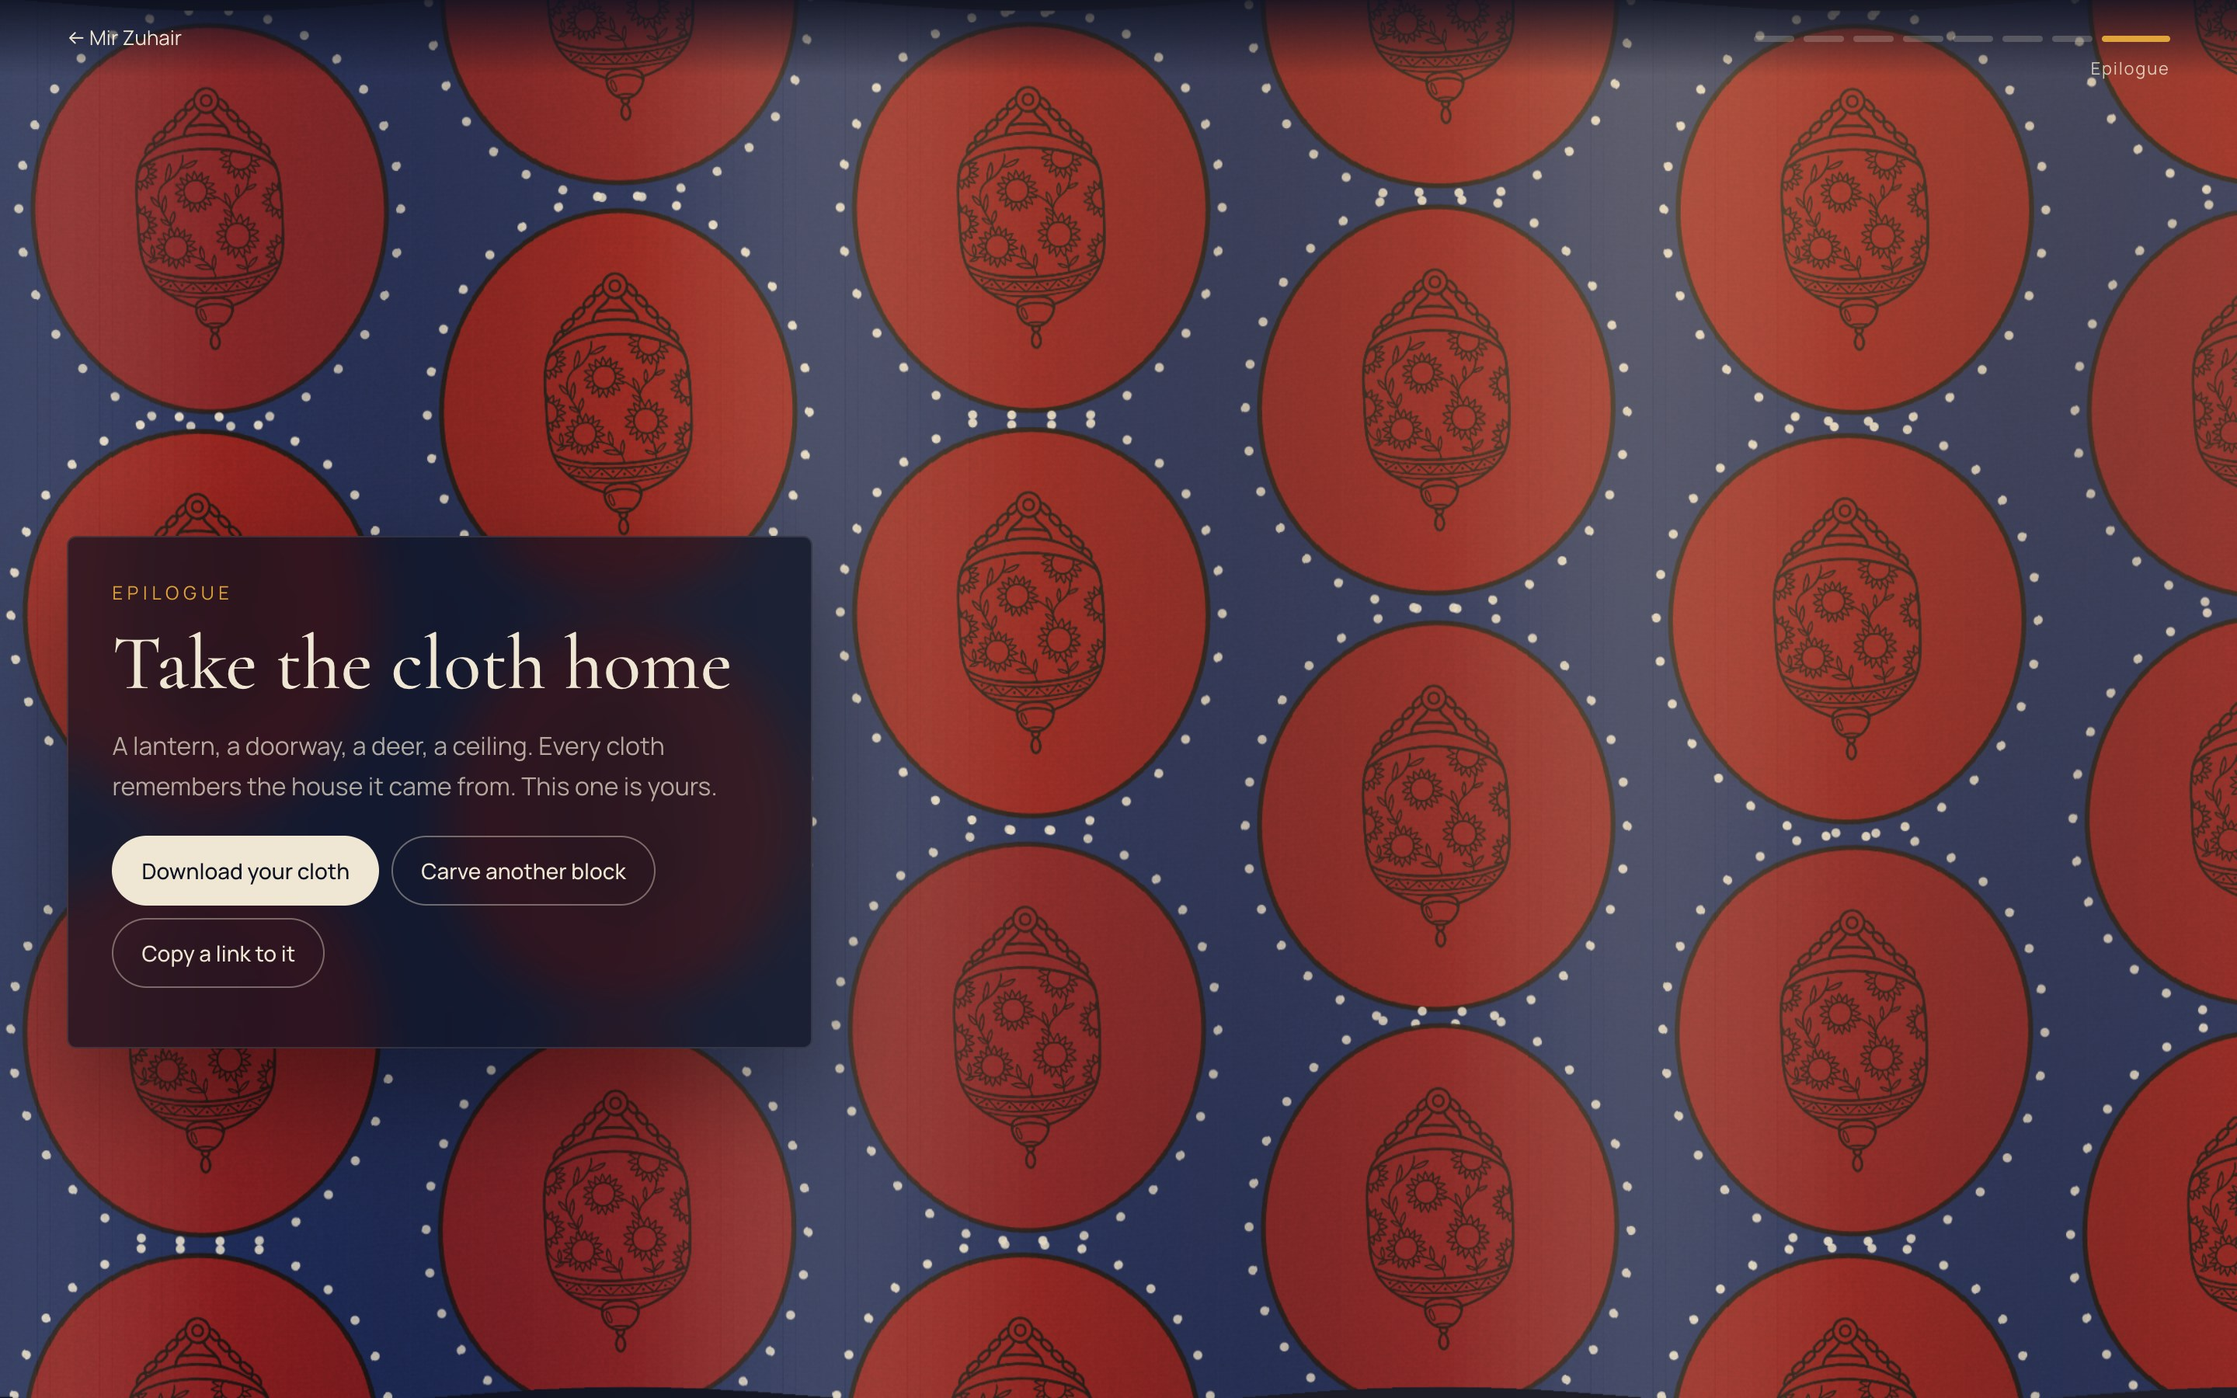
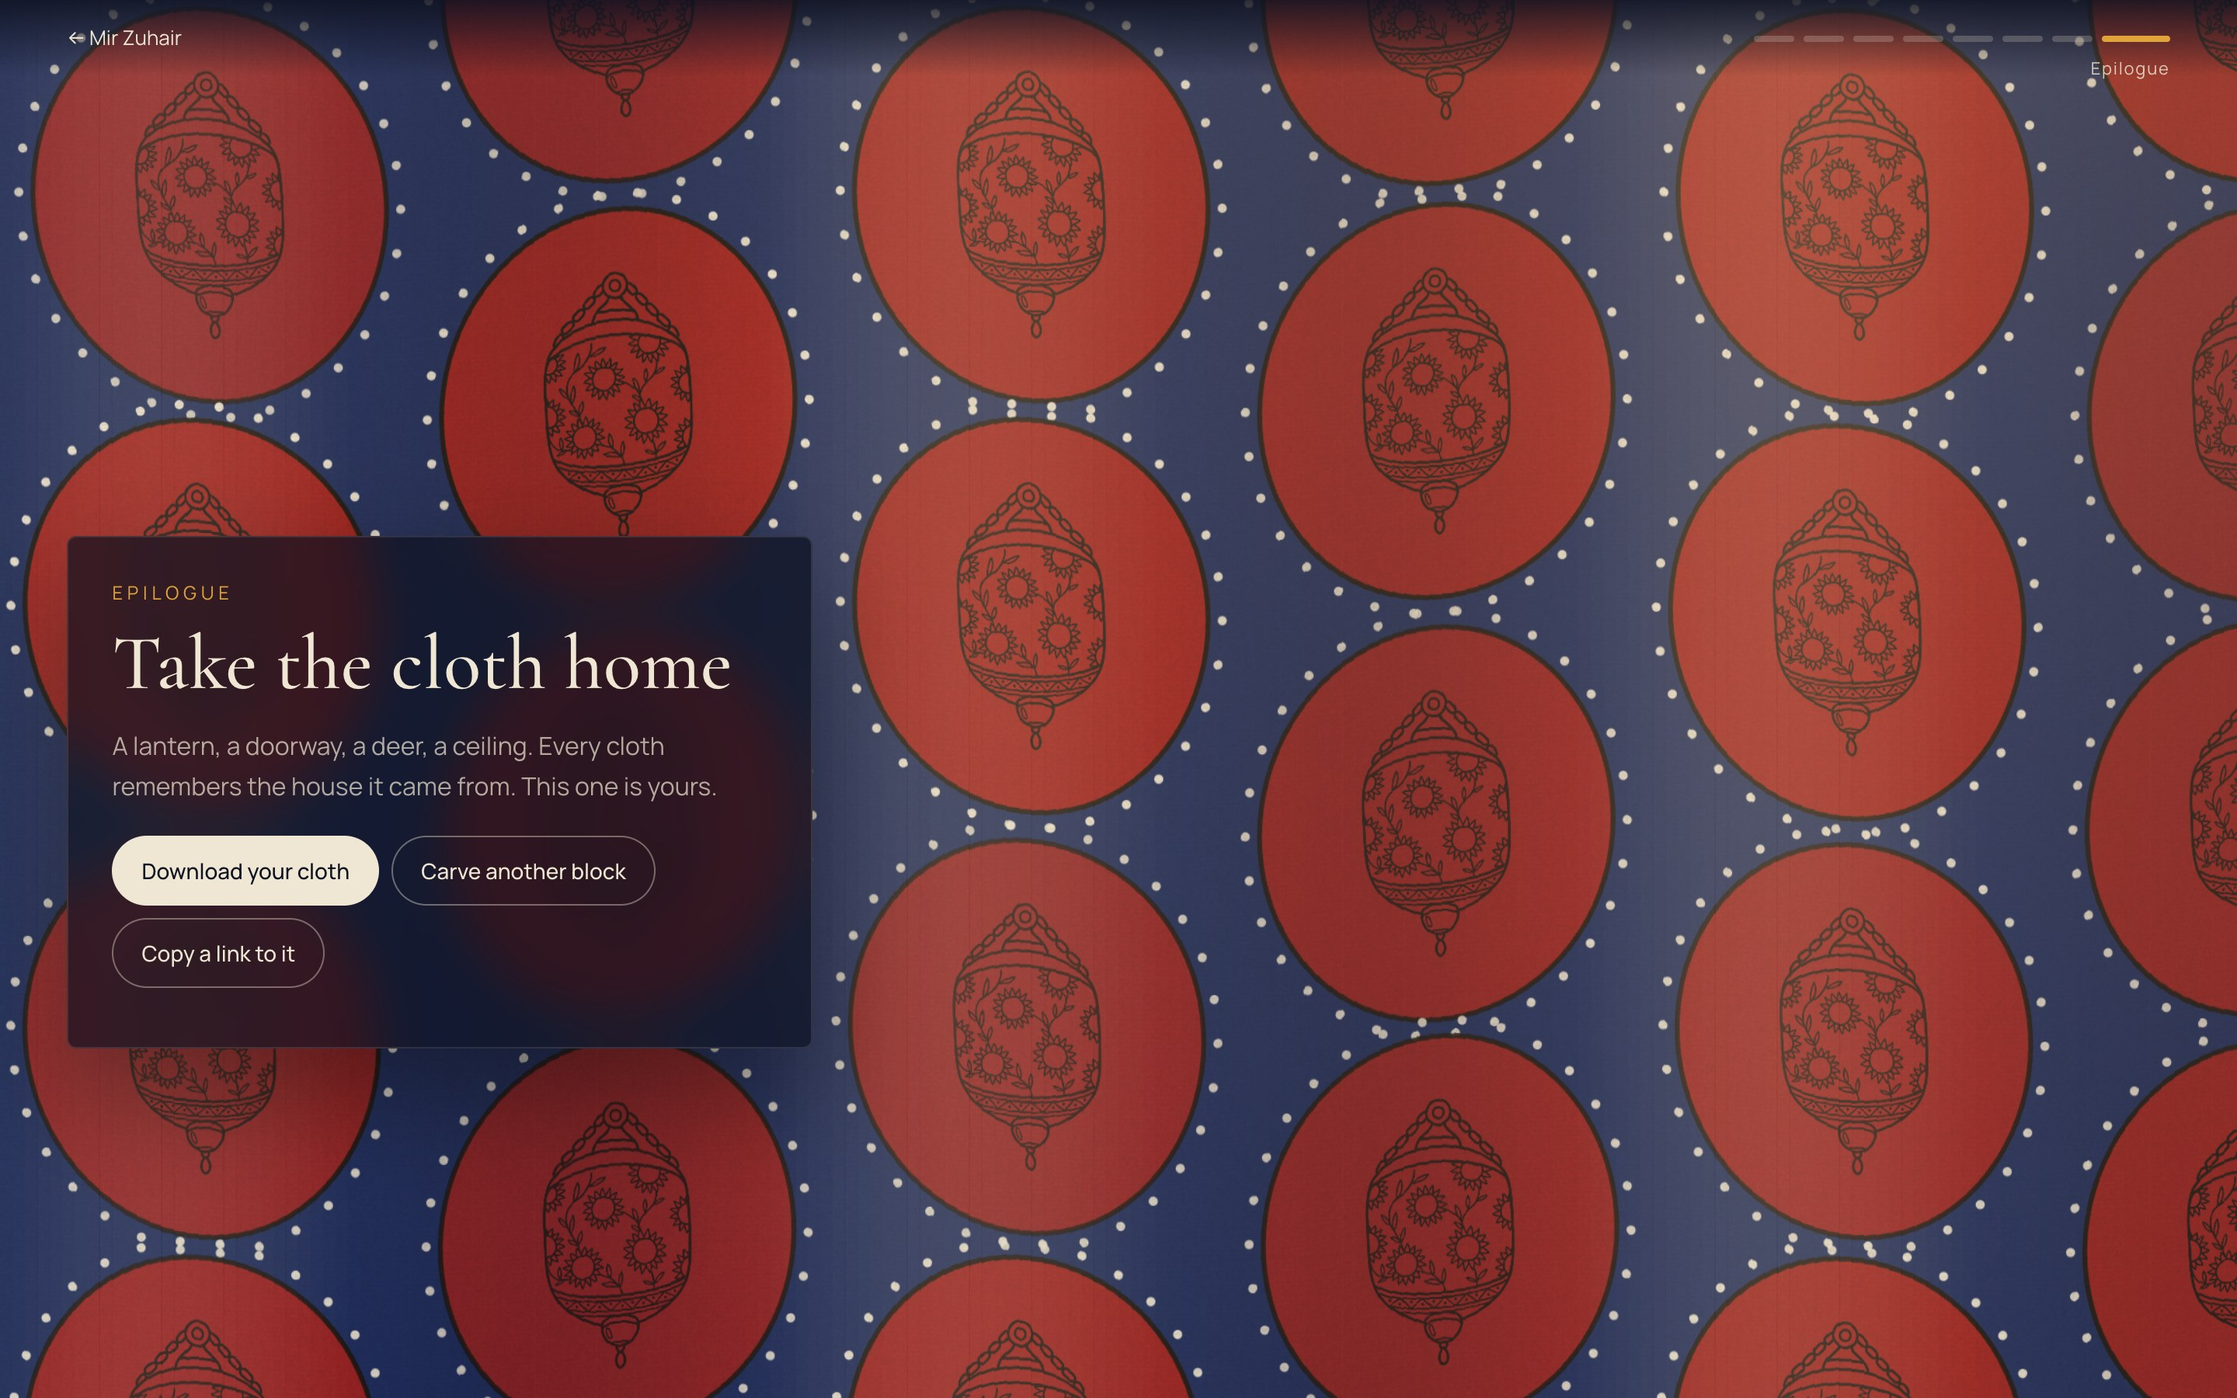
feat(chhaap): give each block its own shape and dyes
Lantern prints madder ovals on indigo, doorway turmeric arches on
madder, deer crest indigo circles on iron black, ceiling madder
diamonds on iron black. The dye chapter names and shows the chosen
block's dyes. Research cards now show four distinct finished cloths.

diff --git a/chhaap/cloth.js b/chhaap/cloth.js
@@ -4,12 +4,16 @@ window.ChhaapCloth = (() => {
 
   const MOTIFS = Object.freeze(["lantern", "doorway", "deer", "ceiling"]);
   const INK = "#1a1512";
-  // the three moments of colour: raw cotton, after madder, after indigo
-  const DYES = Object.freeze([
-    { ground: "#efe6d4", medal: "#efe6d4", dot: "#1a1512" },
-    { ground: "#efe6d4", medal: "#a3201d", dot: "#1a1512" },
-    { ground: "#1f2d5c", medal: "#9b1d1a", dot: "#efe6d4" }
-  ]);
+  const RAW = "#efe6d4";
+  // each block has its own print shape and its own two natural dyes:
+  // the first fills the heart of every print, the second the cloth around it
+  const STYLES = Object.freeze({
+    lantern: { shape: "oval", first: { name: "madder", color: "#a3201d" }, second: { name: "indigo", color: "#1f2d5c" }, note: "Madder is a red from a root; indigo, a blue from a leaf." },
+    doorway: { shape: "arch", first: { name: "turmeric", color: "#d69a1a" }, second: { name: "madder", color: "#7e1714" }, note: "Turmeric is a yellow from a root; madder, a red from a root." },
+    deer: { shape: "circle", first: { name: "indigo", color: "#2c4a8e" }, second: { name: "iron black", color: "#1b1917" }, note: "Indigo is a blue from a leaf; iron black comes from rusted iron." },
+    ceiling: { shape: "diamond", first: { name: "madder", color: "#b0271f" }, second: { name: "iron black", color: "#1b1917" }, note: "Madder is a red from a root; iron black comes from rusted iron." }
+  });
+  const styleOf = (motif) => STYLES[motif] || STYLES.lantern;
   const DOTS_PER_RING = 30;
   const TINT_CACHE_MAX = 40;
   const tintCache = new Map();
@@ -26,12 +30,19 @@ window.ChhaapCloth = (() => {
   const hex = (h) => [1, 3, 5].map((i) => parseInt(h.slice(i, i + 2), 16));
   const mix = (a, b, t) => { const x = hex(a); const y = hex(b); return `rgb(${x.map((v, i) => Math.round(v + (y[i] - v) * t)).join(",")})`; };
 
-  function colorsAt(dye) {
+  // the three moments of colour: raw cotton, after the first dye, after the second
+  function colorsAt(dye, motif) {
+    const st = styleOf(motif);
+    const stops = [
+      { ground: RAW, medal: RAW, dot: INK },
+      { ground: RAW, medal: st.first.color, dot: INK },
+      { ground: st.second.color, medal: st.first.color, dot: RAW }
+    ];
     const d = Math.max(0, Math.min(2, dye));
     const i = Math.min(1, Math.floor(d));
     const t = d - i;
-    const a = DYES[i];
-    const b = DYES[i + 1];
+    const a = stops[i];
+    const b = stops[i + 1];
     return { ground: mix(a.ground, b.ground, t), medal: mix(a.medal, b.medal, t), dot: mix(a.dot, b.dot, t), line: INK };
   }
 
@@ -70,15 +81,36 @@ window.ChhaapCloth = (() => {
     return { jx: (r(1) - .5) * tile * .024, jy: (r(2) - .5) * tile * .024, rot: (r(3) - .5) * .026, ink: .84 + r(4) * .16 };
   }
 
-  function drawPrint(ctx, slot, tile, mask, col, jit) {
+  function shapePath(ctx, shape, rx, ry) {
+    ctx.beginPath();
+    if (shape === "circle") ctx.arc(0, 0, Math.min(rx, ry), 0, Math.PI * 2);
+    else if (shape === "diamond") { ctx.moveTo(0, -ry * 1.05); ctx.lineTo(rx * 1.05, 0); ctx.lineTo(0, ry * 1.05); ctx.lineTo(-rx * 1.05, 0); ctx.closePath(); }
+    else if (shape === "arch") { ctx.moveTo(-rx, ry); ctx.lineTo(-rx, -ry * .1); ctx.bezierCurveTo(-rx, -ry * .75, -rx * .35, -ry, 0, -ry * 1.08); ctx.bezierCurveTo(rx * .35, -ry, rx, -ry * .75, rx, -ry * .1); ctx.lineTo(rx, ry); ctx.closePath(); }
+    else ctx.ellipse(0, 0, rx, ry, 0, 0, Math.PI * 2);
+  }
+
+  // points around the edge of the print shape, for the ring of resist dots
+  function edgePoint(shape, a, rx, ry) {
+    if (shape === "circle") { const r = Math.min(rx, ry); return [Math.cos(a) * r, Math.sin(a) * r]; }
+    if (shape === "diamond") { const c = Math.cos(a); const s2 = Math.sin(a); const k = 1.05 / (Math.abs(c) / rx + Math.abs(s2) / ry); return [c * k, s2 * k]; }
+    if (shape === "arch") {
+      const c = Math.cos(a);
+      const s2 = Math.sin(a);
+      if (s2 < 0) return [c * rx, s2 * ry * 1.05]; // the rounded top
+      const k = Math.min(rx / Math.max(Math.abs(c), 1e-6), ry / Math.max(s2, 1e-6)); // the straight sides and base
+      return [c * k, s2 * k];
+    }
+    return [Math.cos(a) * rx, Math.sin(a) * ry];
+  }
+
+  function drawPrint(ctx, slot, tile, mask, col, jit, shape = "oval") {
     const rx = tile * .43;
     const ry = tile * .47;
     ctx.save();
     ctx.translate(slot.x + jit.jx, slot.y + jit.jy);
     ctx.rotate(jit.rot);
     ctx.globalAlpha = jit.ink;
-    ctx.beginPath();
-    ctx.ellipse(0, 0, rx, ry, 0, 0, Math.PI * 2);
+    shapePath(ctx, shape, rx, ry);
     ctx.fillStyle = col.medal;
     ctx.fill();
     ctx.lineWidth = Math.max(1, tile * .012);
@@ -88,7 +120,8 @@ window.ChhaapCloth = (() => {
     for (let k = 0; k < DOTS_PER_RING; k++) {
       const a = (k / DOTS_PER_RING) * Math.PI * 2;
       ctx.beginPath();
-      ctx.arc(Math.cos(a) * rx * 1.08, Math.sin(a) * ry * 1.08, Math.max(.8, tile * .011), 0, Math.PI * 2);
+      const [ex, ey] = edgePoint(shape, a, rx, ry);
+      ctx.arc(ex * 1.08, ey * 1.08, Math.max(.8, tile * .011), 0, Math.PI * 2);
       ctx.fill();
     }
     const box = tile * .64;
@@ -119,10 +152,11 @@ window.ChhaapCloth = (() => {
   }
 
   function drawCloth(ctx, W, H, o) {
-    const col = colorsAt(o.dye);
+    const col = colorsAt(o.dye, o.motif);
+    const shape = styleOf(o.motif).shape;
     ctx.fillStyle = col.ground;
     ctx.fillRect(0, 0, W, H);
-    o.slots.forEach((slot, idx) => { if (o.pressed.has(idx)) drawPrint(ctx, slot, o.tile, o.mask, col, jitterFor(idx, o.tile)); });
+    o.slots.forEach((slot, idx) => { if (o.pressed.has(idx)) drawPrint(ctx, slot, o.tile, o.mask, col, jitterFor(idx, o.tile), shape); });
     ctx.save();
     ctx.globalCompositeOperation = "multiply";
     ctx.globalAlpha = .16;
@@ -131,11 +165,11 @@ window.ChhaapCloth = (() => {
     ctx.restore();
   }
 
-  function drawBorders(ctx, W, H, band) {
+  function drawBorders(ctx, W, H, band, accent) {
     [0, H - band].forEach((y) => {
       ctx.fillStyle = INK;
       ctx.fillRect(0, y, W, band);
-      ctx.fillStyle = "#a3201d";
+      ctx.fillStyle = accent;
       ctx.fillRect(0, y + band * .18, W, band * .1);
       ctx.fillRect(0, y + band * .72, W, band * .1);
       ctx.fillStyle = "#efe6d4";
@@ -202,7 +236,7 @@ window.ChhaapCloth = (() => {
   }
 
   // one lone print on a square of cloth, for the prologue
-  function drawSingle(ctx, W, H, mask, cx) {
+  function drawSingle(ctx, W, H, mask, cx, motif) {
     ctx.fillStyle = "#0d1120";
     ctx.fillRect(0, 0, W, H);
     const S = Math.min(W, H) * .5;
@@ -218,10 +252,10 @@ window.ChhaapCloth = (() => {
     ctx.fillStyle = "#efe6d4";
     ctx.fillRect(cx - S / 2, H / 2 - S / 2, S, S);
     ctx.restore();
-    drawPrint(ctx, { x: cx, y: H / 2 }, S * .86, mask, colorsAt(1), { jx: 0, jy: 0, rot: -.01, ink: .96 });
+    drawPrint(ctx, { x: cx, y: H / 2 }, S * .86, mask, colorsAt(1, motif), { jx: 0, jy: 0, rot: -.01, ink: .96 }, styleOf(motif).shape);
   }
 
-  function exportCloth(mask) {
+  function exportCloth(mask, motif) {
     const W = 2400;
     const H = 3000;
     const band = 150;
@@ -233,11 +267,11 @@ window.ChhaapCloth = (() => {
     const slots = layout(W, H - band * 2, tile);
     ctx.save();
     ctx.translate(0, band);
-    drawCloth(ctx, W, H - band * 2, { slots, tile, mask, dye: 2, pressed: new Set(slots.map((_, i) => i)) });
+    drawCloth(ctx, W, H - band * 2, { slots, tile, mask, motif, dye: 2, pressed: new Set(slots.map((_, i) => i)) });
     ctx.restore();
-    drawBorders(ctx, W, H, band);
+    drawBorders(ctx, W, H, band, styleOf(motif).first.color);
     return c;
   }
 
-  return Object.freeze({ MOTIFS, loadMasks, layout, colorsAt, drawCloth, drawBlock, drawSingle, exportCloth });
+  return Object.freeze({ MOTIFS, styleOf, loadMasks, layout, colorsAt, drawCloth, drawBlock, drawSingle, exportCloth });
 })();

diff --git a/chhaap/chhaap.js b/chhaap/chhaap.js
@@ -94,7 +94,7 @@
   /* ---------- drawing per chapter ---------- */
   function renderCloth(dye) {
     if (!clothDirty) return;
-    C.drawCloth(offCtx, W, H, { slots, tile, mask: masks[state.motif], dye, pressed: state.pressed });
+    C.drawCloth(offCtx, W, H, { slots, tile, mask: masks[state.motif], motif: state.motif, dye, pressed: state.pressed });
     clothDirty = false;
   }
 
@@ -149,10 +149,10 @@
     for (let x = 0; x < W; x += strip) {
       const phase = x * .012 - t * 1.4;
       const dy = REDUCED ? 0 : Math.sin(phase) * amp;
-      ctx.drawImage(off, x * sx, 0, strip * sx, off.height, x, dy, strip, H);
+      ctx.drawImage(off, x * sx, 0, strip * sx, off.height, x, dy - amp, strip, H + amp * 2); // overdraw so no edge shows
       const shade = REDUCED ? 0 : Math.cos(phase) * .12;
       ctx.fillStyle = shade > 0 ? `rgba(255,236,200,${shade.toFixed(3)})` : `rgba(0,0,20,${(-shade).toFixed(3)})`;
-      ctx.fillRect(x, dy, strip, H);
+      ctx.fillRect(x, 0, strip, H);
     }
     const sun = ctx.createRadialGradient(W * .85, -H * .1, 0, W * .85, -H * .1, Math.max(W, H));
     sun.addColorStop(0, "rgba(255,210,140,.22)");
@@ -165,7 +165,7 @@
     const ch = state.chapter;
     const mask = masks && masks[state.motif];
     if (mask) {
-      if (ch === "prologue") C.drawSingle(ctx, W, H, mask, focusX());
+      if (ch === "prologue") C.drawSingle(ctx, W, H, mask, focusX(), state.motif);
       else if (ch === "block") C.drawBlock(ctx, W, H, mask, REDUCED ? 1 : (now - chapterStart) / CARVE_MS, focusX());
       else if (ch === "press") { renderCloth(0); ctx.drawImage(off, 0, 0, W, H); drawFlashes(now); }
       else if (ch === "dye") { renderCloth(state.dye); ctx.drawImage(off, 0, 0, W, H); }
@@ -210,18 +210,30 @@
   }
 
   /* ---------- choices and actions ---------- */
+  // the dye chapter names the two dyes of the chosen block and wears its colours
+  function showDyes(st) {
+    const cap = (w) => w.charAt(0).toUpperCase() + w.slice(1);
+    $$("[data-dye='first']").forEach((el) => { el.textContent = el.dataset.cap ? cap(st.first.name) : st.first.name; });
+    $$("[data-dye='second']").forEach((el) => { el.textContent = st.second.name; });
+    $("[data-dye='note']").textContent = st.note;
+    const card = $("#dye .card");
+    card.style.setProperty("--dye-a", st.first.color);
+    card.style.setProperty("--dye-b", st.second.color);
+  }
+
   function chooseMotif(m) {
     if (!C.MOTIFS.includes(m)) return;
     update({ motif: m });
     $$("[data-motif]").forEach((b) => b.setAttribute("aria-pressed", String(b.dataset.motif === m)));
     $$("[data-photo]").forEach((f) => f.classList.toggle("on", f.dataset.photo === m));
+    showDyes(C.styleOf(m));
     const url = new URL(location.href);
     url.searchParams.set("block", m);
     history.replaceState(null, "", url);
   }
 
   function downloadCloth(status) {
-    C.exportCloth(masks[state.motif]).toBlob((blob) => {
+    C.exportCloth(masks[state.motif], state.motif).toBlob((blob) => {
       if (!blob) { status.textContent = "Your browser could not make the image. Please try another browser."; return; }
       const a = document.createElement("a");
       a.href = URL.createObjectURL(blob);

diff --git a/chhaap/chhaap.css b/chhaap/chhaap.css
@@ -57,8 +57,9 @@ h1 .ur { font-size: .42em; color: var(--turmeric); line-height: 1; padding-top: 
 .scroll-cue { margin-top: 30px !important; font-size: 13px; letter-spacing: .1em; animation: breathe 2.6s ease-in-out infinite; }
 @keyframes breathe { 50% { opacity: .35; } }
 h2 { font-family: var(--serif); font-weight: 500; font-size: clamp(34px, 3.6vw, 50px); line-height: 1.02; margin-bottom: 14px; }
-em.madder { color: #e0645a; font-family: var(--serif); font-size: 1.2em; }
-em.indigo { color: #8fa8ea; font-family: var(--serif); font-size: 1.2em; }
+em.dye-a, em.dye-b { font-family: var(--serif); font-size: 1.2em; color: var(--cream); text-decoration: underline; text-decoration-thickness: 4px; text-underline-offset: 5px; }
+em.dye-a { text-decoration-color: var(--dye-a, #a3201d); }
+em.dye-b { text-decoration-color: var(--dye-b, #1f2d5c); }
 .ask { color: var(--cream) !important; font-family: var(--serif); font-style: italic; font-size: 21px; }
 .fine { font-size: 12px; opacity: .75; }
 .choices { display: grid; grid-template-columns: 1fr 1fr; gap: 8px; margin: 14px 0 10px; }
@@ -73,7 +74,7 @@ em.indigo { color: #8fa8ea; font-family: var(--serif); font-size: 1.2em; }
 .btn:hover { border-color: var(--turmeric); }
 .btn.solid { background: var(--cream); color: var(--night); border-color: var(--cream); }
 .btn.solid:hover { background: var(--turmeric); border-color: var(--turmeric); }
-.dye-meter { position: relative; height: 6px; border-radius: 3px; margin: 22px 0 18px; background: linear-gradient(90deg, var(--madder) 0 50%, #26396e 50% 100%); }
+.dye-meter { position: relative; height: 6px; border-radius: 3px; margin: 22px 0 18px; background: linear-gradient(90deg, var(--dye-a, #a3201d) 0 50%, var(--dye-b, #1f2d5c) 50% 100%); box-shadow: inset 0 0 0 1px rgba(239, 230, 212, .2); }
 .dye-meter i { position: absolute; top: -4px; width: 14px; height: 14px; border-radius: 50%; background: var(--cream); left: calc(var(--p, 0) * (100% - 14px)); }
 .dye-meter span { position: absolute; top: 12px; font-size: 11px; letter-spacing: .12em; text-transform: uppercase; opacity: .7; }
 .dye-meter span:first-of-type { left: 0; }

diff --git a/chhaap/index.html b/chhaap/index.html
@@ -10,7 +10,7 @@
 <link rel="preconnect" href="https://fonts.googleapis.com">
 <link rel="preconnect" href="https://fonts.gstatic.com" crossorigin>
 <link href="https://fonts.googleapis.com/css2?family=Cormorant+Garamond:ital,wght@0,400;0,500;0,600;1,400;1,500&family=Manrope:wght@400;500;600&family=Noto+Nastaliq+Urdu:wght@500&display=swap" rel="stylesheet">
-<link rel="stylesheet" href="chhaap.css?v=2">
+<link rel="stylesheet" href="chhaap.css?v=4">
 </head>
 <body>
 <header class="bar">
@@ -91,10 +91,11 @@
   <section class="ch tall" id="dye" data-ch="dye">
     <div class="card">
       <p class="num">IV · The dye</p>
-      <h2>Madder, then indigo</h2>
-      <p>The printed lines hold. Then the colour comes: first <em class="madder">madder</em>, a red from a root, into the heart of every print.</p>
-      <p>Then <em class="indigo">indigo</em>, a blue from a leaf, into everything around it. Keep scrolling to dye the cloth.</p>
-      <div class="dye-meter" aria-hidden="true"><i data-dye-meter></i><span>madder</span><span>indigo</span></div>
+      <h2><span data-dye="first" data-cap="1">Madder</span>, then <span data-dye="second">indigo</span></h2>
+      <p>The printed lines hold. Then the colour comes: first <em class="dye-a" data-dye="first">madder</em>, into the heart of every print.</p>
+      <p>Then <em class="dye-b" data-dye="second">indigo</em>, into everything around it. Keep scrolling to dye the cloth.</p>
+      <p class="fine" data-dye="note">Madder is a red from a root; indigo, a blue from a leaf.</p>
+      <div class="dye-meter" aria-hidden="true"><i data-dye-meter></i><span data-dye="first">madder</span><span data-dye="second">indigo</span></div>
     </div>
   </section>
 
@@ -140,7 +141,7 @@
   </section>
 </main>
 
-<script src="cloth.js?v=1"></script>
-<script src="chhaap.js?v=2"></script>
+<script src="cloth.js?v=2"></script>
+<script src="chhaap.js?v=4"></script>
 </body>
 </html>
